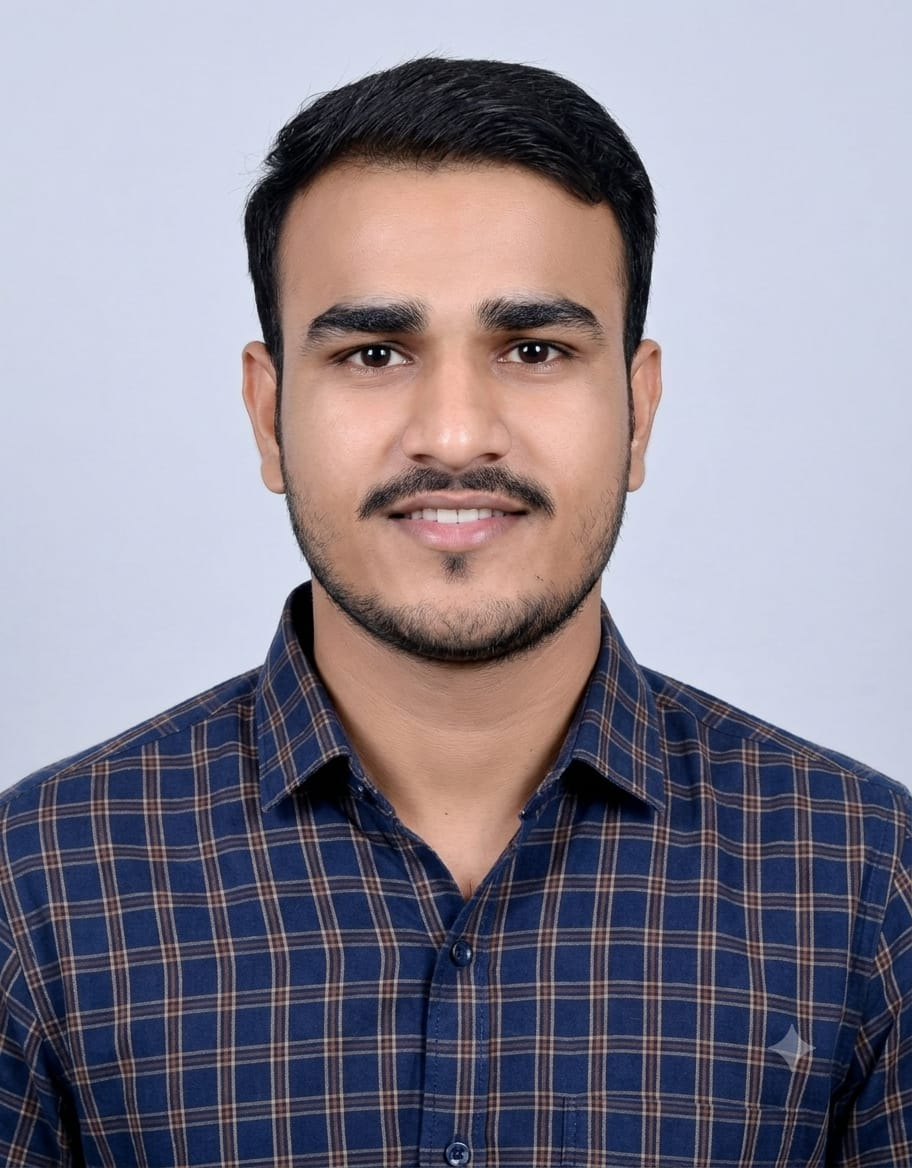
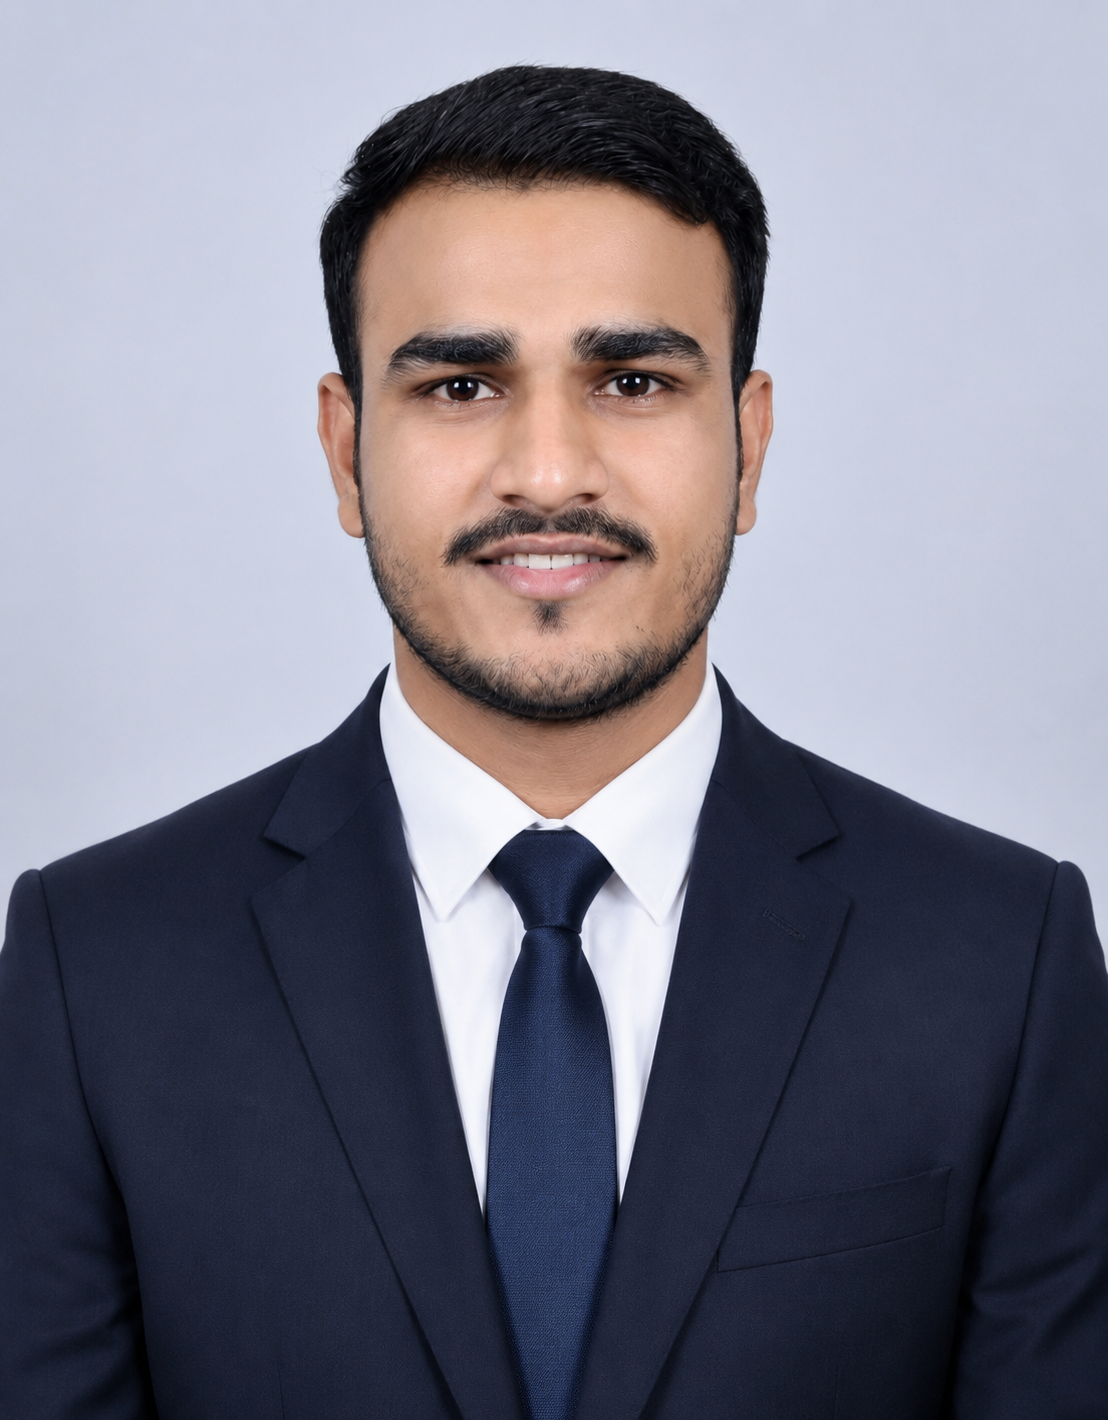
change new image

diff --git a/src/components/product/ProductCard.tsx b/src/components/product/ProductCard.tsx
@@ -130,6 +130,9 @@ export default function ProductCard({ product, onQuickView }: ProductCardProps) 
               <span className="text-sm text-ink/40 line-through">
                 {mainPrice.original}
               </span>
+              <span className="text-xs text-ink/50 font-medium ml-1">
+                ({targetPack?.label})
+              </span>
             </div>
           ) : (
             <div className="h-7 mb-4" /> // spacer